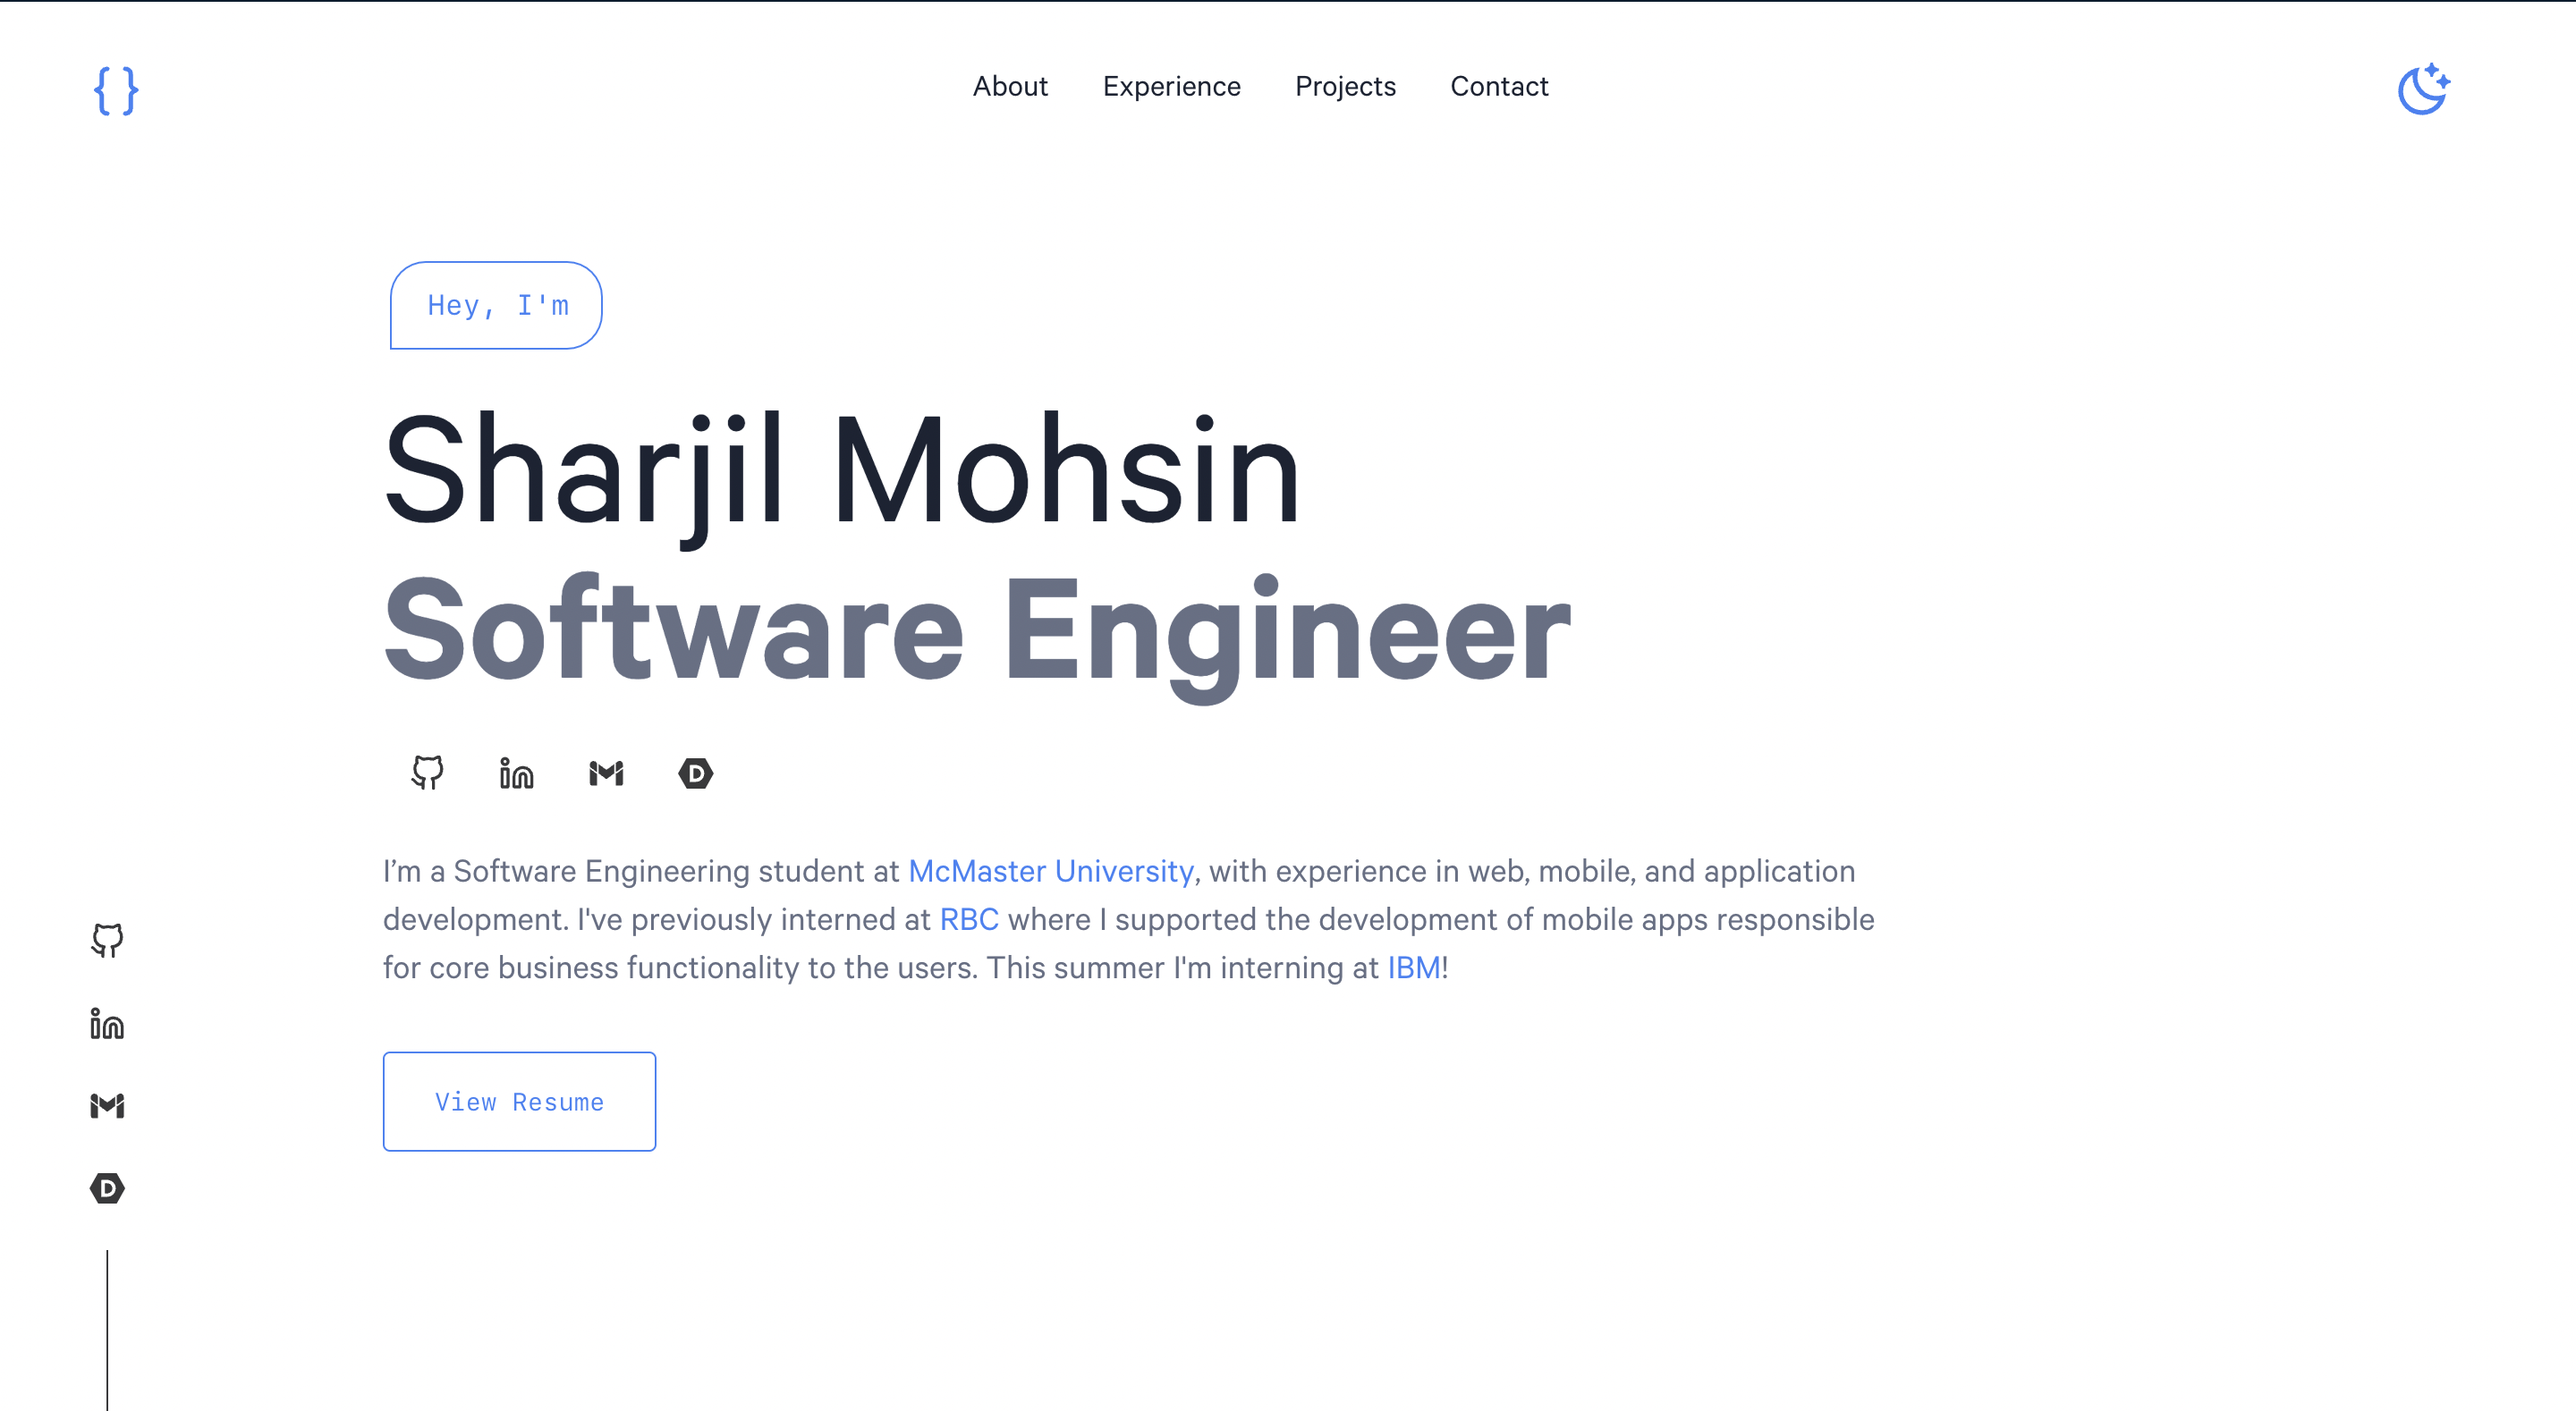
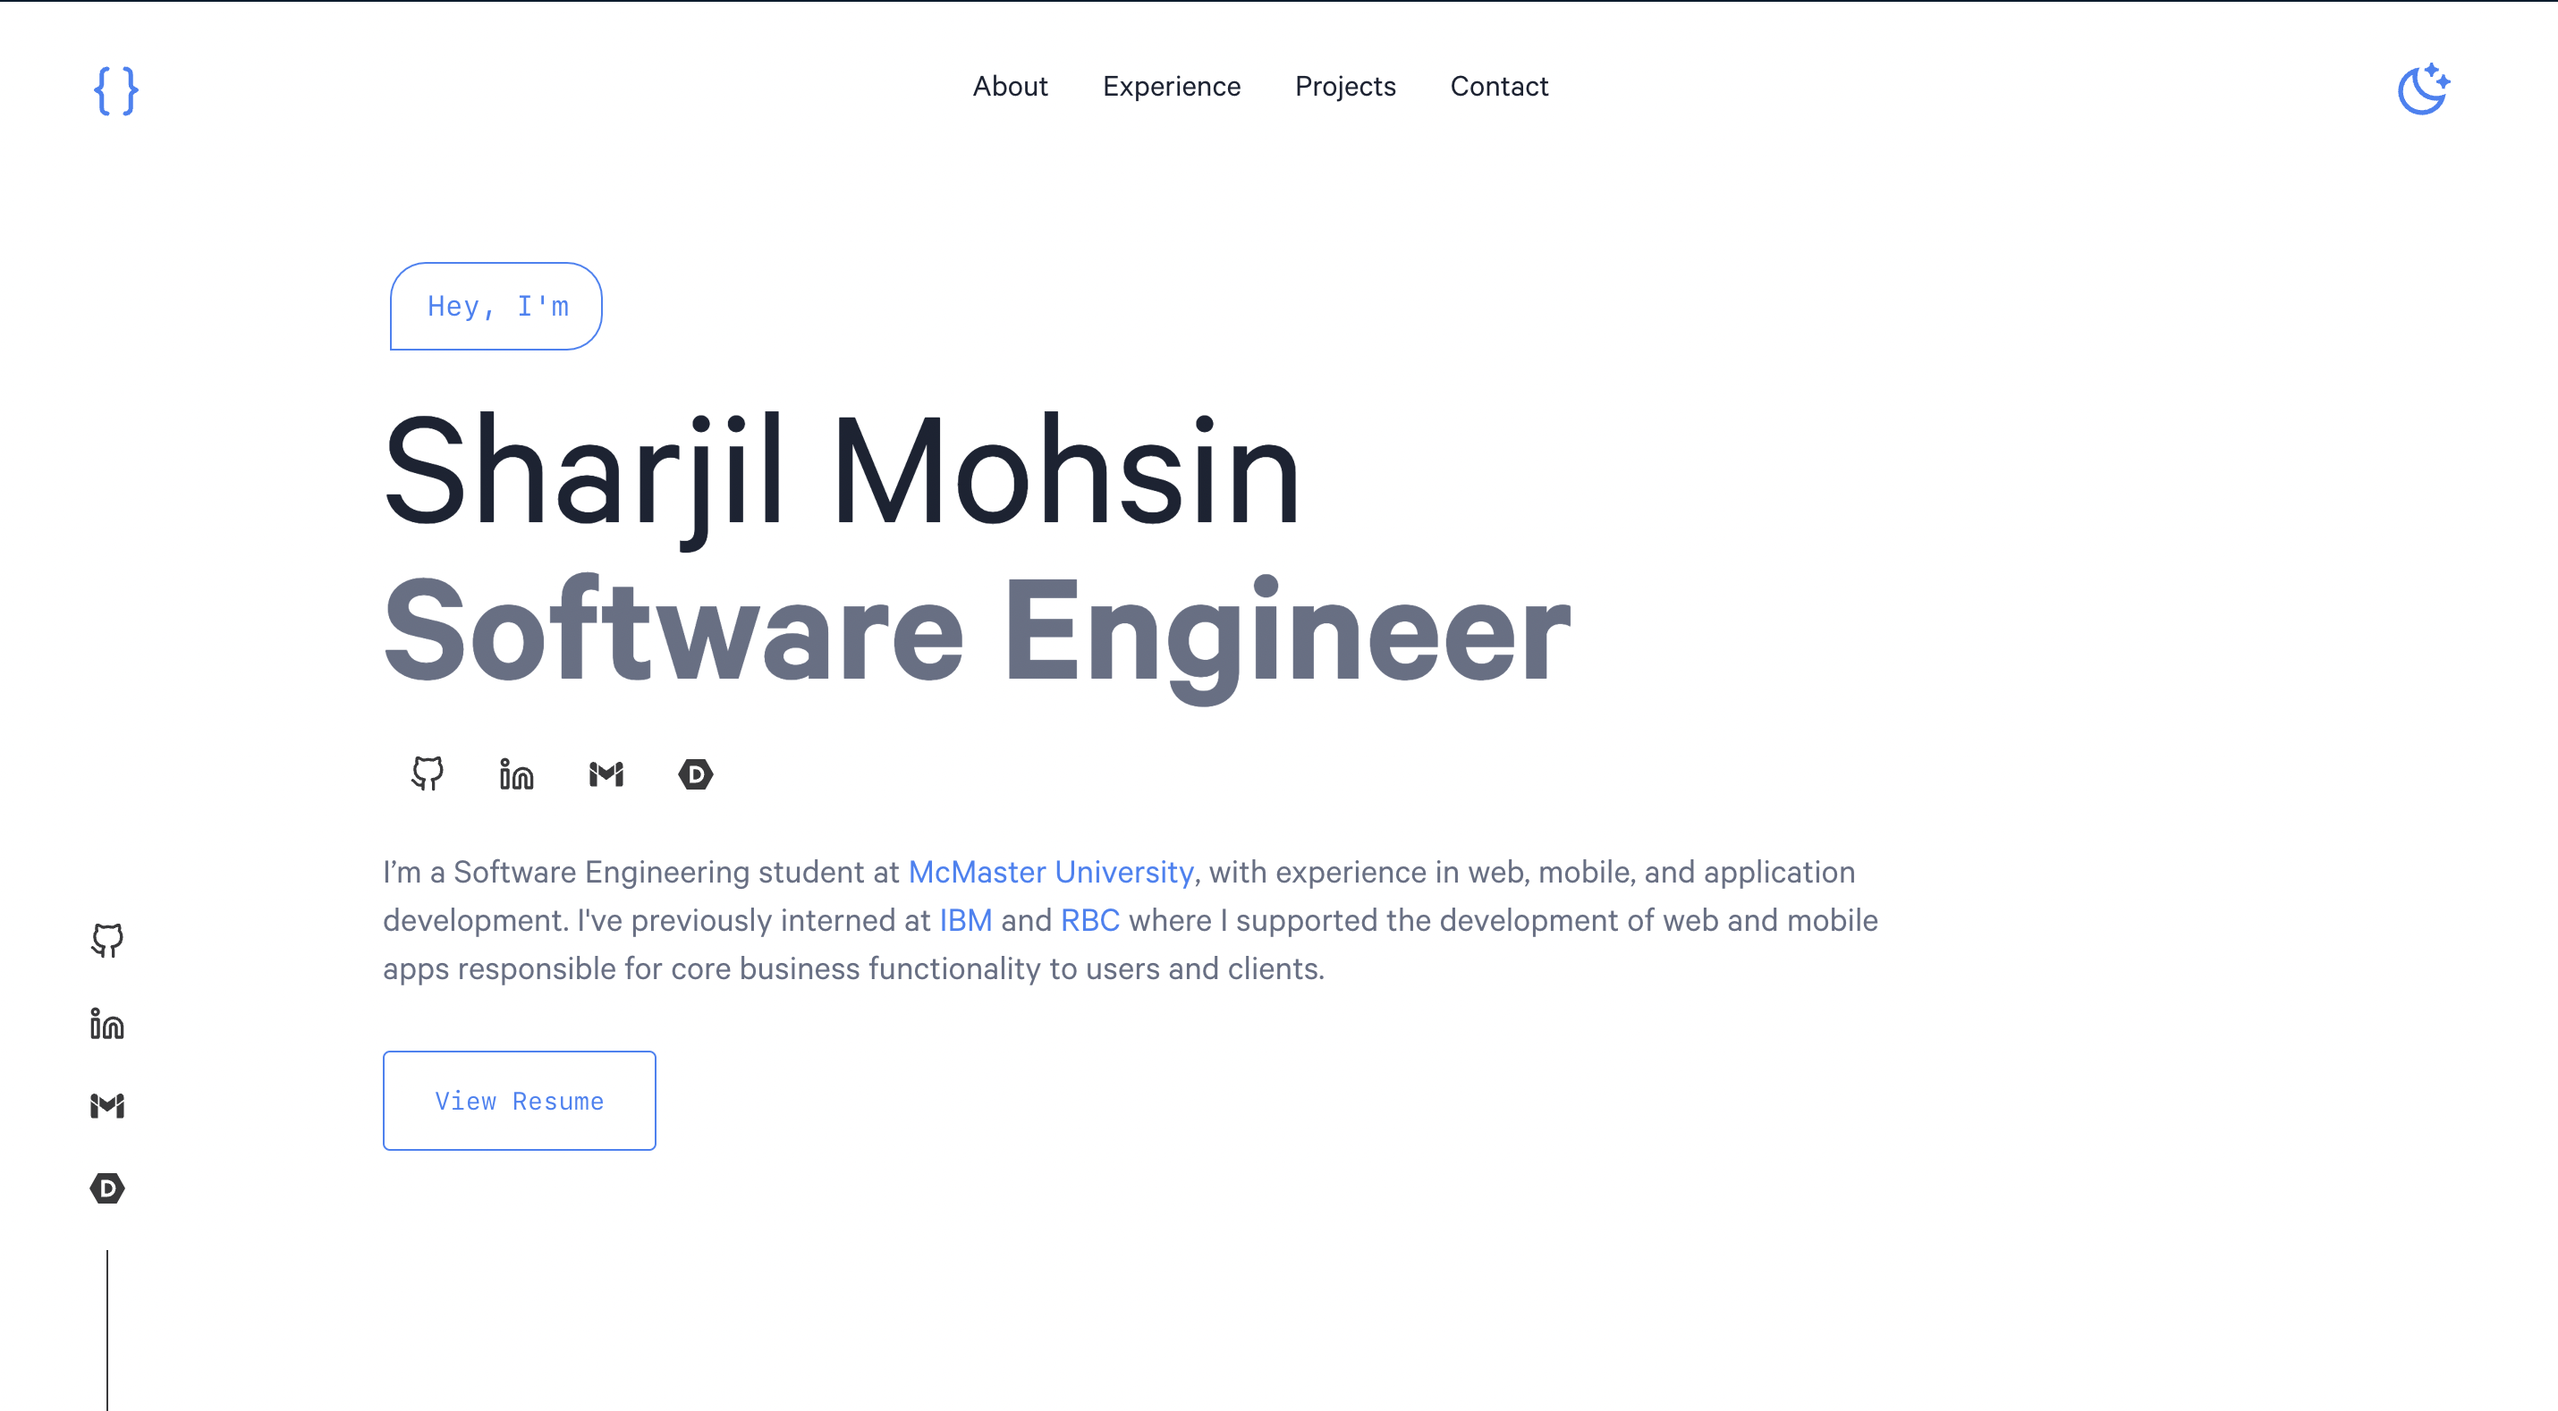
Updating website content

diff --git a/src/components/sections/hero.js b/src/components/sections/hero.js
@@ -134,15 +134,15 @@ const Hero = () => {
           McMaster University
         </a>
         , with experience in web, mobile, and application development. I've previously interned at{' '}
+        <a href="https://www.ibm.com/ca-en/" target="_blank" rel="noreferrer">
+          IBM
+        </a>{' '}
+        and{' '}
         <a href="https://www.rbc.com/about-rbc.html" target="_blank" rel="noreferrer">
           RBC
         </a>{' '}
-        where I supported the development of mobile apps responsible for core
-        business functionality to the users. This summer I'm interning at{' '}
-        <a href="https://www.ibm.com/ca-en/" target="_blank" rel="noreferrer">
-          IBM
-        </a>
-        !
+        where I supported the development of web and mobile apps responsible for core
+        business functionality to users and clients.
       </p>
     </>
   );

diff --git a/src/components/sections/about.js b/src/components/sections/about.js
@@ -147,11 +147,15 @@ const About = () => {
             </p>
 
             <p>
-              Currently I'm interning with{' '}
+              Previously I've interned with{' '}
               <a href="https://www.ibm.com/ca-en/" target="_blank" rel="noreferrer">
                 IBM
+              </a>{' '}
+              and{' '}
+              <a href="https://www.rbc.com/about-rbc.html" target="_blank" rel="noreferrer">
+                RBC
               </a>
-              , but I will be looking for full time positions once I graduate in April 2023.
+              , and I'm currently looking for full-time positions once I graduate in May 2023.
             </p>
 
             <p>Here are a few of the technologies I used during my internships and to build projects:</p>

diff --git a/src/components/footer.js b/src/components/footer.js
@@ -87,7 +87,7 @@ const Footer = () => (
         <a href="https://pages.github.com/">Hosted on GitHub Pages</a>
       </div>
       <a href="">
-        <div>Copyright © 2022 Sharjil Mohsin</div>
+        <div>Copyright © 2023 Sharjil Mohsin</div>
       </a>
     </StyledCredit>
   </StyledFooter>

diff --git a/content/jobs/Royal Bank of Canada/index.md b/content/jobs/Royal Bank of Canada/index.md
@@ -8,6 +8,6 @@ range: 'September 2021 - December 2021'
 url: 'https://www.rbc.com/about-rbc.html'
 ---
 
-- Designed applications in the mobile or online development technology space using Java as part of the Android Development team.
-- Developed, troubleshoot, enhanced, and documented components developed by myself and others as per the requirements and detailed design, as well as performed unit testing and leveraged automated unit testing frameworks.
+- Improved Android 12L support for RBC’s primary mobile app, impacting 2 million+ users.
+- Implemented feature that allows users to access anything app-related from Google Assistant, and performed unit testing on this feature.
 - Tools used: Java, Android Studio, Git, GitHub, Jira, JUnit, Jenkins.

diff --git a/content/jobs/IBM/index.md b/content/jobs/IBM/index.md
@@ -7,6 +7,6 @@ range: 'January 2022 - August 2022'
 url: 'https://www.ibm.com/ca-en'
 ---
 
-- Working on backend development as part of the Cognos Analytics team, including bug fixes and various projects.
-- Tools used: Java, JavaScript, ReactJS, Redux, VSCode, Eclipse, Git, GitHub, Jira, JUnit, Apache Maven, Jenkins, SonarQube.
-- More info coming soon!
+- Replaced old SOAP APIs with newer REST APIs in a support tool for Cognos Analytics, increasing efficiency and reducing bandwidth usage.
+- Optimized performance of application through integration of new cryptography APIs, while leveraging automated testing frameworks.
+- Tools used: Java, JavaScript, React.js, Redux, VSCode, Eclipse, Git, GitHub, Jira, JUnit, Apache Maven, Jenkins, SonarQube.

diff --git a/content/jobs/McMaster University/index.md b/content/jobs/McMaster University/index.md
@@ -4,7 +4,7 @@ title: 'Teaching Assistant'
 company: 'McMaster'
 companyFullName: 'McMaster University - Faculty of Engineering'
 location: 'Hamilton, ON'
-range: 'September 2020 - April 2021'
+range: 'September 2020 - April 2021, January 2023 - Present'
 url: 'https://www.eng.mcmaster.ca/'
 ---
 
